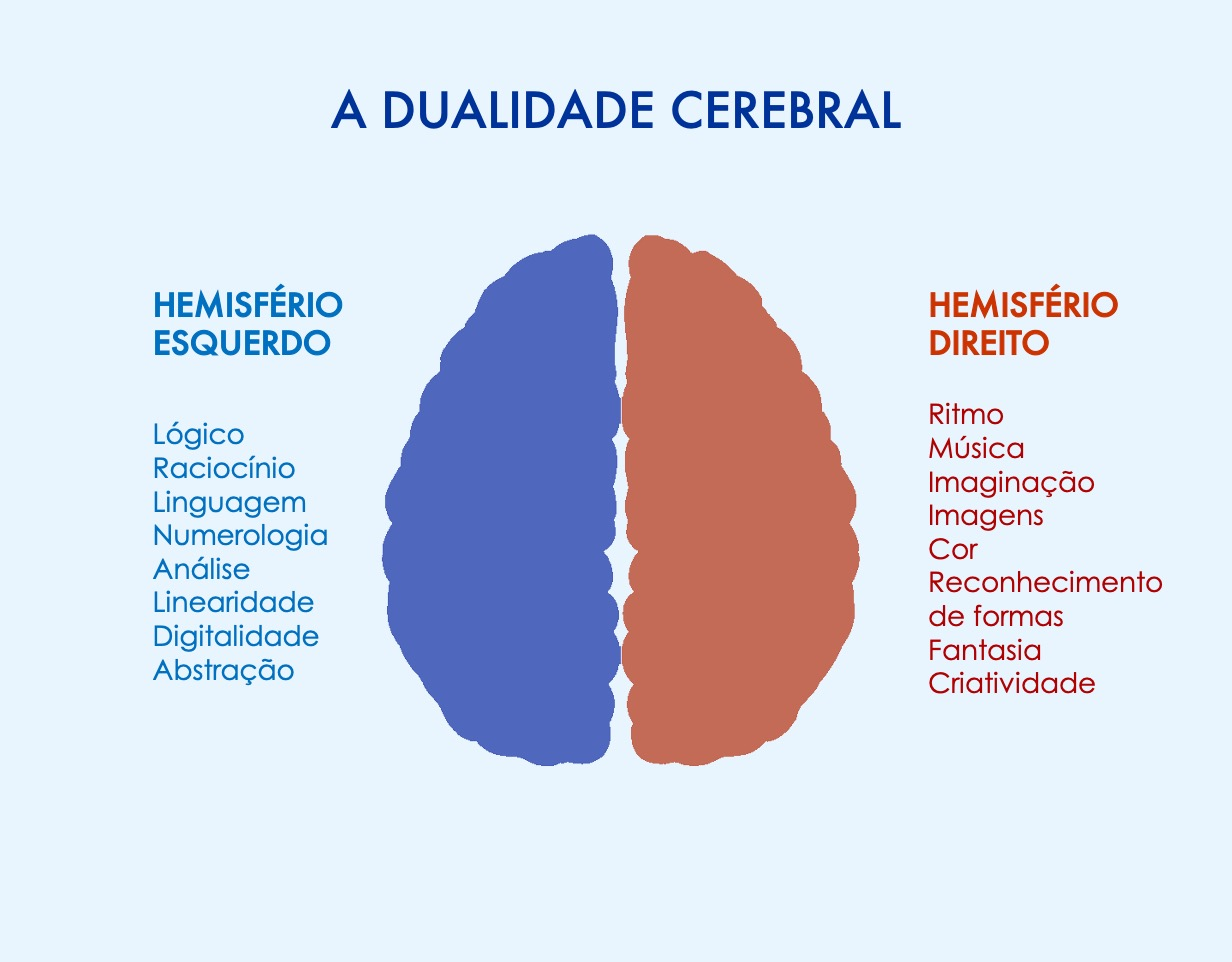
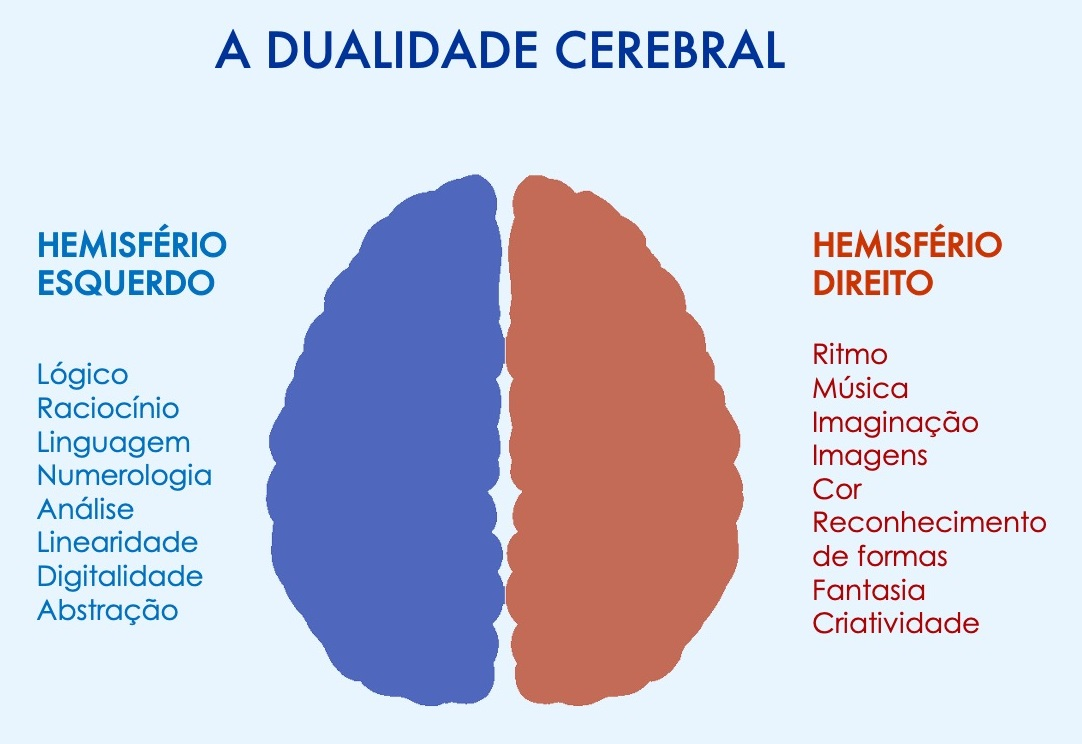
Ajuste de imagens sem width

diff --git a/resources/views/diagnostico19.blade.php b/resources/views/diagnostico19.blade.php
@@ -62,11 +62,11 @@
 </style>
 
 <div class="card card-primary">
-    <div class="card-header">
+    <div class="card-header" style="min-height: 8em;">
         <div class="row d-none d-xl-block">
             <div class="col-12" style="z-index: 1; position: absolute;">
                 <h3><center>INSTRUMENTO 19</center></h3>
-        <h3><center>PLANO DE AÇÃO QUANTITATIVO PARA ALCANÇAR AS METAS DE VENDAS</center></h3>
+        <h3><center>PLANO DE AÇÃO QUANTITATIVO PARA ALCANÇAR AS METAS<br>DE VENDAS</center></h3>
         </div>
             <div class='col-12' style="margin-left: 1em">
                 <img src="../posicionamento/public/img/selo_top_seller.png" style="width: 7em; float:right">
@@ -96,7 +96,7 @@
                     <p class="fonte18">Neste instrumento é desenvolvida a metodologia para desenvolver os Planos de Ação que permitam alcançar os objetivos que você se propõe alcançar.</p>
                     <p class="fonte18">O processo de administração profissional consiste basicamente em Tomar Decisões e Implementar essas decisões tomadas. Este instrumento serve para implementar as decisões que você tomou para alcançar suas metas.</p>
 
-                    <center><img src="../posicionamento/public/img/instrumento19/diag_19_1.jpg" style="width: 60%;"></center><br>
+                    <center><img src="../posicionamento/public/img/instrumento19/diag_19_1.jpg" style="width: 50%;"></center><br>
 
                     <p class="fonte18">Trata-se de um Plano de Ação estruturado que permitirá o deslocamento da Etapa A - Decisão tomada, porém não implementada até a Etapa C - quando a Decisão tomada já foi implementada e os resultados são alcançados.</p>
                     <p class="fonte18">As atividades que devem ser gerenciadas pelo Plano de Ação proposto nesta metodologia são os seguintes:</p>

diff --git a/resources/views/diagnostico9.blade.php b/resources/views/diagnostico9.blade.php
@@ -53,11 +53,11 @@
     }
 </style>
 <div class="card card-primary">
-    <div class="card-header">
+    <div class="card-header"  style="min-height: 8em;">
         <div class="row d-none d-xl-block">
             <div class="col-12" style="z-index: 1; position: absolute;">
                 <h3><center>INSTRUMENTO 9</center></h3>
-        <h3><center>GERENCIAMENTO DO RELACIONAMENTO UTILIZANDO OS CANAIS NEUROLINGUISTICOS</center></h3>
+        <h3><center>GERENCIAMENTO DO RELACIONAMENTO UTILIZANDO OS<br>CANAIS NEUROLINGUISTICOS</center></h3>
         </div>
             <div class='col-12' style="margin-left: 1em">
                 <img src="../posicionamento/public/img/selo_top_seller.png" style="width: 7em; float:right">
@@ -85,7 +85,7 @@
                     <p class="fonte18">Existem três Modelos Mentais que levam a três perfis diferentes de comunicação, como mostra o exemplo na figura seguinte</p>
 
                     <center><img src="../posicionamento/public/img/instrumento9/diag_9_3.jpg" style="width: 50%"></center>
-
+                    <br>
                     <p class="fonte18"><font style="color: #35408f">- O MODELO VISUAL:</font> É próprio das pessoas com um quadro mental que leva a entender o mundo por meio de imagens, gráficos, filmes, esquemas e outros recursos visuais.</p>
                     <p class="fonte18">Estas pessoas tendem a se comunicar através de imagens. Desenham enquanto falam, traduzem as idéias em esquemas gráficos e usam palavras com conotação visual.</p>
                     <p class="fonte18"><font style="color: #35408f">- O MODELO AUDITIVO:</font> as pessoas nas quais predomina este modelo gostam de falar, e falam de forma clara e pausada. Seu raciocínio é mais analítico. Querem ouvir e gostam de explicações.</p>

diff --git a/resources/views/diagnostico10.blade.php b/resources/views/diagnostico10.blade.php
@@ -3,11 +3,11 @@
 @section('content')
 
 <div class="card card-primary">
-    <div class="card-header">
+    <div class="card-header" style="min-height: 8em;">
         <div class="row d-none d-xl-block">
             <div class="col-12" style="z-index: 1; position: absolute;">
                 <h3><center>INSTRUMENTO 10</center></h3>
-        <h3><center>O GERENCIAMENTO DO RELACIONAMENTO ATRAVÉS DA INTELIGÊNCIA EMOCIONAL</center></h3>
+        <h3><center>O GERENCIAMENTO DO RELACIONAMENTO COM O CLIENTE<br>ATRAVÉS DA INTELIGÊNCIA EMOCIONAL</center></h3>
         </div>
             <div class='col-12' style="margin-left: 1em">
                 <img src="../posicionamento/public/img/selo_top_seller.png" style="width: 7em; float:right">
@@ -20,7 +20,7 @@
                     <center>INSTRUMENTO 10</center>
                 </h3>
                 <h3>
-                    <center>O GERENCIAMENTO DO RELACIONAMENTO ATRAVÉS DA INTELIGÊNCIA EMOCIONAL</center>
+                    <center>O GERENCIAMENTO DO RELACIONAMENTO COM O CLIENTE<br>ATRAVÉS DA INTELIGÊNCIA EMOCIONAL</center>
                 </h3>
             </div>
         </div>
@@ -41,7 +41,7 @@
                     <p class="fonte18">A Inteligência Emocional está vinculada ao hemisfério direito, porém deve ser monitorada pelo hemisfério esquerdo.</p>
 
                     <center><img src="../posicionamento/public/img/instrumento10/diag_10_1.jpg" style="width: 50%"></center>
-
+                    <br>
                     <p class="fonte18">Pessoas que aprendem a lidar com a Inteligência Emocional sabem pensar, sentir e agir de forma inteligente e consciente, e não permitem que as suas emoções administrem sua vida e nem atrapalhem seu trabalho.</p>
 
                     <br>

diff --git a/resources/views/diagnostico7.blade.php b/resources/views/diagnostico7.blade.php
@@ -87,7 +87,7 @@
                     - A Criança
                     </p>
 
-                    <center><img src="../posicionamento/public/img/instrumento7/diag_7_1.jpg" style="width: 50%;"></center>
+                    <center><img src="../posicionamento/public/img/instrumento7/diag_7_1.jpg" style="width: 35%;"></center>
                     <br>
 
                     <p class="fonte18">Antes de apresentar seu Diagnóstico e as Recomendações vamos considerar os conceitos básicos da metodologia para ter uma melhor compreensão da contribuição deste Instrumento.</p>
@@ -117,7 +117,7 @@
                     <p class="fonte18">As práticas e sentimentos da criança são desejáveis e promovem vitalidade, intuição e felicidade.</p>
                     <p class="fonte18">No gráfico seguinte é mostrada a forma de representar os três estados do ego, bem como suas características e conteúdos principais:</p>
 
-                    <center><img src="../posicionamento/public/img/instrumento7/diag_7_2.jpg" style="width: 80%;"></center>
+                    <center><img src="../posicionamento/public/img/instrumento7/diag_7_2.jpg" style="width: 50%;"></center>
                     <br>
 
                     <p class="fonte18">Os três estados do ego têm diferentes graus de predominância. Os três existem em todas as pessoas e se expressam, mas aquele dos três subsistemas que prevalece, define a Personalidade.</p>

diff --git a/resources/views/diagnostico8.blade.php b/resources/views/diagnostico8.blade.php
@@ -53,7 +53,7 @@
 </style>
 
 <div class="card card-primary">
-    <div class="card-header">
+    <div class="card-header" style="min-height: 8em;">
         <div class="row d-none d-xl-block">
             <div class="col-12" style="z-index: 1; position: absolute;">
                 <h3>
@@ -74,7 +74,7 @@
                     <center>INSTRUMENTO 8</center>
                 </h3>
                 <h3>
-                    <center>GERENCIAMENTO DO RELACIONAMENTO ATRAVÉS DA EXPOSIÇÃO E DO FEEDBACK</center>
+                    <center>GERENCIAMENTO DO RELACIONAMENTO ATRAVÉS DA<br>EXPOSIÇÃO E DO FEEDBACK</center>
                 </h3>
             </div>
         </div>
@@ -342,7 +342,7 @@
                             <h4>SEGUNDO TIPO DE PERFIL</h4>
                         </p>
 
-                        <center><img src="../posicionamento/public/img/instrumento8/diag_8_8.jpg" style="width: 40%;"></center>
+                        <center><img src="../posicionamento/public/img/instrumento8/diag_8_8.png" style="width: 40%;"></center>
                         <br>
 
                         <p class="fonte18">Se este for seu caso, você deve aumentar sua Exposição. Este formato de janela mostra que o Feedback é o processo que você mais utiliza para estabelecer o relacionamento e que é utilizado em excesso por você.</p>

diff --git a/resources/views/instrumento10.blade.php b/resources/views/instrumento10.blade.php
@@ -55,14 +55,14 @@
     }
 </style>
 <div class="card card-primary">
-    <div class="card-header">
+    <div class="card-header"  style="min-height: 8em;">
         <div class="row d-none d-xl-block">
             <div class="col-12" style="z-index: 1; position: absolute;">
                 <h3>
             <center>INSTRUMENTO 10</center>
         </h3>
         <h3>
-            <center>O GERENCIAMENTO DO RELACIONAMENTO COM O CLIENTE ATRAVÉS DA INTELIGÊNCIA EMOCIONAL</center>
+            <center>O GERENCIAMENTO DO RELACIONAMENTO COM O CLIENTE<br>ATRAVÉS DA INTELIGÊNCIA EMOCIONAL</center>
         </h3>
         </div>
             <div class='col-12' style="margin-left: 1em">
@@ -73,7 +73,7 @@
         <div class="row d-block d-xl-none">
             <div class="col-12">
                 <h3>
-                    <center>INSTRUMENTO 11</center>
+                    <center>INSTRUMENTO 10</center>
                 </h3>
                 <h3>
                     <center>O GERENCIAMENTO DO RELACIONAMENTO COM O CLIENTE ATRAVÉS DA INTELIGÊNCIA EMOCIONAL</center>

diff --git a/resources/views/diagnostico5.blade.php b/resources/views/diagnostico5.blade.php
@@ -92,8 +92,8 @@
                         <p class="fonte18">Conhecer os produtos concorrentes é algo estratégico para fechar vendas.</p>
                         <p class="fonte18">Veja a figura seguinte:</p>
 
-                        <center><img src="../posicionamento/public/img/instrumento5/diag5_1.jpg"></center>
-
+                        <center><img src="../posicionamento/public/img/instrumento5/diag5_1.jpg" style="width: 40%"></center>
+                        <br>
                         <p class="fonte18">Você tem que conhecer os produtos concorrentes para reduzir o quanto possível a <b>área vermelha</b> no gráfico.</p>
                         <p class="fonte18">Essa área representa que os produtos concorrentes atendem necessidades do cliente que seus produtos não atendem. Como você vê, é uma área de exclusividade entre o</p>
                         <p class="fonte18">produto concorrente e as necessidades do cliente.</p>

diff --git a/resources/views/diagnostico6.blade.php b/resources/views/diagnostico6.blade.php
@@ -40,7 +40,7 @@
                     <p class="fonte18">A partir do Diagnóstico e implementando as recomendações que serão feitas, você poderá dedicar mais tempo às atividades que efetivamente agregam valor.</p>
                     <p class="fonte18">Os gráficos abaixo ilustram os conceitos de <b>atividades que agregam valor</b>, as <b>atividades que não agregam valor</b> e <b>perdas</b> numa suposta situação atual e a evolução para um nível superior de Produtividade.</p>
 
-                        <center><img src="../posicionamento/public/img/instrumento6/diag6_1.jpg"></center> <!-- ../posicionamento/public/img/instrumento6/diag6_1.png -->
+                        <center><img src="../posicionamento/public/img/instrumento6/diag6_1.jpg" style="width: 50%;"></center> <!-- ../posicionamento/public/img/instrumento6/diag6_1.png -->
 
                         <br>
                         <p class="fonte18">

diff --git a/resources/views/diagnostico15.blade.php b/resources/views/diagnostico15.blade.php
@@ -67,11 +67,11 @@
 </style>
 
 <div class="card card-primary">
-    <div class="card-header">
+    <div class="card-header" style="min-height: 8em;">
         <div class="row d-none d-xl-block">
             <div class="col-12" style="z-index: 1; position: absolute;">
                 <h3><center>INSTRUMENTO 15</center></h3>
-        <h3><center>AVALIAÇÃO DA QUANTIDADE E QUALIDADE DOS MEUS ARGUMENTOS DE VENDAS (FORÇAS PROPULSORAS)</center></h3> 
+        <h3><center>AVALIAÇÃO DA QUANTIDADE E QUALIDADE DOS MEUS <br> ARGUMENTOS DE VENDAS (FORÇAS PROPULSORAS)</center></h3> 
         </div>
             <div class='col-12' style="margin-left: 1em">
                 <img src="../posicionamento/public/img/selo_top_seller.png" style="width: 7em; float:right">

diff --git a/resources/views/diagnostico16.blade.php b/resources/views/diagnostico16.blade.php
@@ -67,11 +67,11 @@
 </style>
 
 <div class="card card-primary">
-    <div class="card-header">
+    <div class="card-header" style="min-height: 8em;">
         <div class="row d-none d-xl-block">
             <div class="col-12" style="z-index: 1; position: absolute;">
                 <h3><center>INSTRUMENTO 16</center></h3>
-        <h3><center>NEUTRALIZAÇÃO DOS OBSTÁCULOS DA VENDA (FORÇAS RESTRITIVAS)</center></h3> 
+        <h3><center>NEUTRALIZAÇÃO DOS OBSTÁCULOS DA VENDA<br>(FORÇAS RESTRITIVAS)</center></h3> 
         </div>
             <div class='col-12' style="margin-left: 1em">
                 <img src="../posicionamento/public/img/selo_top_seller.png" style="width: 7em; float:right">

diff --git a/resources/views/instrumento15_1.blade.php b/resources/views/instrumento15_1.blade.php
@@ -93,14 +93,14 @@
 
 </style>
 <div class="card card-primary">
-    <div class="card-header">
+    <div class="card-header" style="min-height: 8em;">
         <div class="row d-none d-xl-block">
             <div class="col-12" style="z-index: 1; position: absolute;">
                 <h3>
             <center>INSTRUMENTO 15</center>
         </h3>
         <h3>
-            <center>AVALIAÇÃO DA QUANTIDADE E QUALIDADE DOS MEUS ARGUMENTOS DE VENDAS (FORÇAS PROPULSORAS)</center>
+            <center>AVALIAÇÃO DA QUANTIDADE E QUALIDADE DOS MEUS<br>ARGUMENTOS DE VENDAS (FORÇAS PROPULSORAS)</center>
         </h3>
         </div>
             <div class='col-12' style="margin-left: 1em">

diff --git a/resources/views/instrumento15_2.blade.php b/resources/views/instrumento15_2.blade.php
@@ -93,14 +93,14 @@
 </style>
 
 <div class="card card-primary">
-    <div class="card-header">
+    <div class="card-header" style="min-height: 8em;">
         <div class="row d-none d-xl-block">
             <div class="col-12" style="z-index: 1; position: absolute;">
                 <h3>
             <center>INSTRUMENTO 15</center>
         </h3>
         <h3>
-            <center>AVALIAÇÃO DA QUANTIDADE E QUALIDADE DOS MEUS ARGUMENTOS DE VENDAS (FORÇAS PROPULSORAS)</center>
+            <center>AVALIAÇÃO DA QUANTIDADE E QUALIDADE DOS MEUS<br>ARGUMENTOS DE VENDAS (FORÇAS PROPULSORAS)</center>
         </h3>
         </div>
             <div class='col-12' style="margin-left: 1em">
